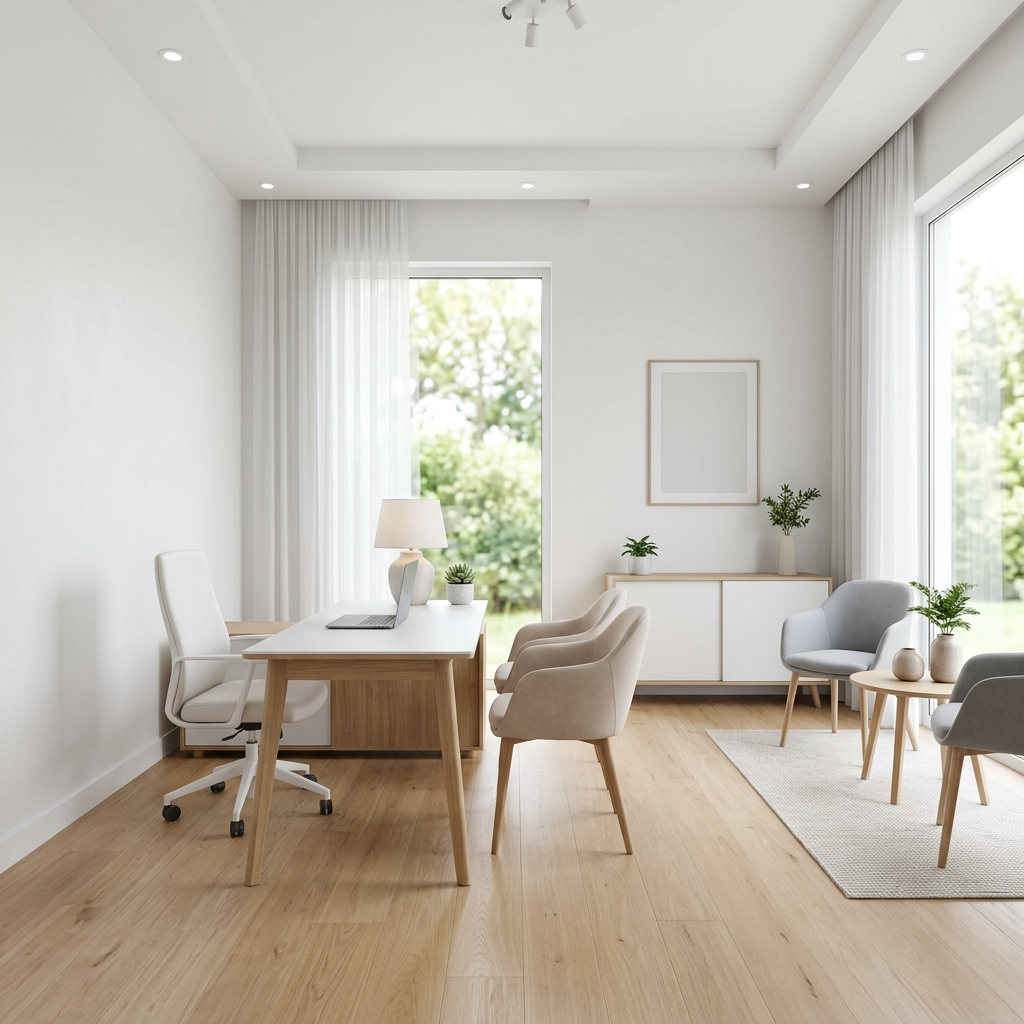
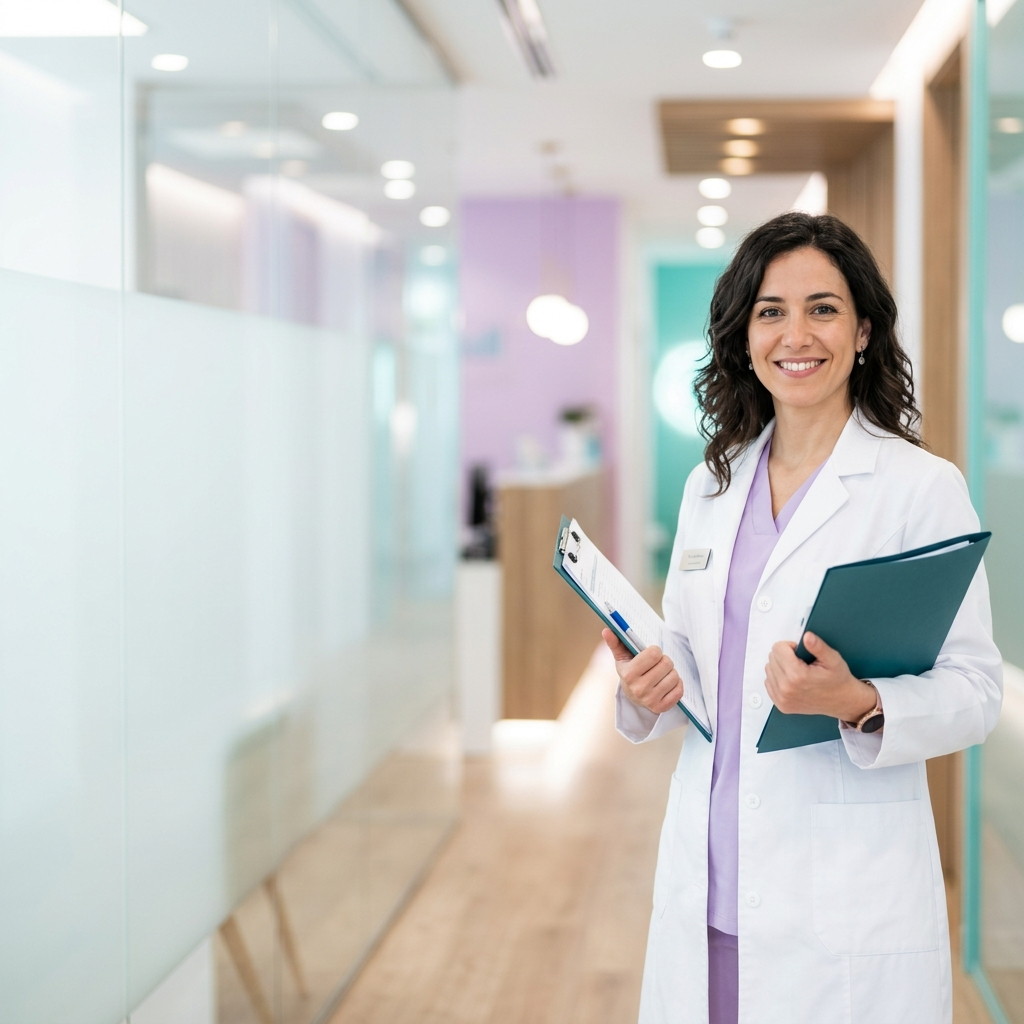
Fix: Solucionado error que omitía 75 claves de traducción en el bloque inglés de i18n.js, integrada nueva imagen de doctora con alta iluminación para el Hero, y configurado posicionamiento y opacidad de cabecera

diff --git a/js/i18n.js b/js/i18n.js
@@ -334,6 +334,81 @@ const translations = {
   },
 
   en: {
+    "btn.eligible": "See if I'm eligible →",
+    "pricing.hero_subtitle": 'Your online medical consultation, official prescription, and original medication included in a single flat monthly rate.',
+    "pricing.ship1_d": 'We collaborate with licensed online pharmacies in Spain. You will receive your pen at home via certified 24h cold-chain transport.',
+    "pricing.ship1_t": '📦 Direct Home Delivery',
+    "pricing.ship2_d": 'If you prefer, we issue an official electronic prescription so you can purchase your pen directly at your preferred local pharmacy.',
+    "pricing.ship2_t": '🏥 In-Pharmacy Pick-up',
+    "pricing.ship_sub": 'Upon clinician approval, your subscription fee covers the original medication. We offer two options for your convenience:',
+    "pricing.ship_title": 'How is medication delivery managed?',
+    "t_gen.desc1": 'GLP-1 (glucagon-like peptide-1) receptor agonists are state-of-the-art treatments specifically designed and approved to help regulate appetite and caloric intake.',
+    "t_gen.desc2": 'Multiple large-scale clinical trials have demonstrated that combining GLP-1 treatments with lifestyle changes is significantly more effective than diet alone for achieving healthy, steady weight loss.',
+    "t_gen.explore_link": 'Explore treatment →',
+    "t_gen.our_treatments": 'Our Treatments',
+    "t_gen.prescription_warning": 'These medications require a medical prescription in Spain. They can only be obtained with a prescription issued by a doctor after evaluating your clinical history.',
+    "t_gen.read_more": 'Read more about',
+    "t_gen.sub": 'The doctor will determine which drug is most suitable for you based on your BMI, clinical history, and compatibilities.',
+    "t_gen.tag": 'What are GLP-1s?',
+    "t_gen.title": 'Science-backed weight loss medications',
+    "test.cta_btn": 'Start Assessment →',
+    "test.cta_subtitle": 'Complete your online medical questionnaire in 10 minutes. No commitments.',
+    "test.cta_title": 'Want to be the next success story?',
+    "test.q1_quote": '"I chose MediSlim because I wanted a real doctor reviewing my medical history. I started with Mounjaro and have been losing weight consistently for 3 months. I have lost 9 kg — about 9% of my initial weight — and I feel supported every step of the way."',
+    "test.q1_result": '-9 kg in 3 months',
+    "test.q2_quote": '"I was worried about wasting money like with other programs. Here it was different: clear prices, clear process. I have lost 13 kg in four months, more than 12% of my starting weight."',
+    "test.q2_result": '-13 kg in 4 months',
+    "test.q3_quote": '"I didn\'t want to lose weight fast — I wanted something sustainable. After reviewing my history, the doctor recommended Saxenda. I have lost around 7% of my weight and my appetite is much more controlled."',
+    "test.q3_result": '-7% body weight',
+    "test.q4_quote": '"Years of sedentary work had really affected me. The first month with Wegovy I saw steady changes. Eight months later, I have lost 16 kg — about 15% — and it feels sustainable."',
+    "test.q4_result": '-16 kg in 8 months',
+    "test.q5_quote": '"Before starting Ozempic, I wanted clarity on what was realistic. My doctor explained the gradual and steady progress, not extreme results. In seven months I have reduced my weight by 11 kg, more than 10%."',
+    "test.q5_result": '-11 kg in 7 months',
+    "test.q6_quote": '"I wanted a medically supervised option. The doctor confirmed Mounjaro. In six months I have lost 21 kg, about 17%, and I have felt supported throughout the process."',
+    "test.q6_result": '-21 kg in 6 months',
+    "test.q7_quote": '"With hypertension and prediabetes, my GP had been telling me for years that I needed to lose weight. With Wegovy I have lost 14 kg in 5 months and my blood tests have improved significantly."',
+    "test.q7_result": '-14 kg in 5 months',
+    "test.q8_quote": '"The process was very easy: I filled out the form on a Sunday, the doctor contacted me on Monday, and by Wednesday I already had the prescription. I\'ve been on Saxenda for 4 months and have lost 8 kg without a constant feeling of hunger."',
+    "test.q8_result": '-8 kg in 4 months',
+    "test.q9_quote": '"The first month was about adjustment — some occasional nausea — but the doctor guided me perfectly. Now, in month 3 with Ozempic, I feel much more energetic and have lost 7 kg."',
+    "test.q9_result": '-7 kg in 3 months',
+    "test.stat_avg_lost": 'Average weight lost in 6 months',
+    "test.stat_continuity": 'Treatment continuity',
+    "test.stat_satisfaction": 'Satisfied patients',
+    "test.stat_testimonials": 'Verified testimonials',
+    "test.subtitle": 'Real results from real patients. Each testimonial has been verified and corresponds to a patient who has completed at least 3 months of treatment.',
+    "tm.dose_intro": 'Progressive dosage starting at 2.5 mg',
+    "tm.efectividad": 'Up to 20.9% body weight lost',
+    "tm.frecuencia": 'Weekly (Injection)',
+    "tm.hero_desc": 'The next-generation treatment for obesity. First dual GIP/GLP-1 agonist approved by the AEMPS with results up to 22% weight loss.',
+    "tm.hero_title": 'Mounjaro · Tirzepatide',
+    "tm.laboratorio": 'Eli Lilly',
+    "tm.mecanismo": 'GIP + GLP-1 (Dual)',
+    "tm.tag": 'Dual GIP + GLP-1 Agonist',
+    "to.dose_intro": 'Doses of 0.25 mg, 0.5 mg and 1 mg',
+    "to.efectividad": 'Glycemic control + progressive weight loss',
+    "to.frecuencia": 'Weekly (Injection)',
+    "to.hero_desc": "Novo Nordisk's weekly semaglutide treatment, widely known for its dual action of glycemic control and progressive weight loss.",
+    "to.hero_title": 'Ozempic · Semaglutide 0.5 / 1 mg',
+    "to.laboratorio": 'Novo Nordisk',
+    "to.mecanismo": 'GLP-1 receptor agonist',
+    "to.tag": 'GLP-1 Agonist',
+    "tsax.dose_intro": 'Adjustable daily dosage up to 3 mg',
+    "tsax.efectividad": 'Up to 8% body weight lost',
+    "tsax.frecuencia": 'Daily (Injection)',
+    "tsax.hero_desc": 'First GLP-1 receptor agonist approved for weight management in Spain. Daily administered, it offers excellent flexibility in dose titration.',
+    "tsax.hero_title": 'Saxenda · Liraglutida 3 mg',
+    "tsax.laboratorio": 'Novo Nordisk',
+    "tsax.mecanismo": 'GLP-1 receptor agonist',
+    "tsax.tag": 'GLP-1 Agonist · Daily',
+    "tw.dose_intro": 'Progressive dosage starting at 0.25 mg',
+    "tw.efectividad": 'Up to 15% body weight lost',
+    "tw.frecuencia": 'Weekly (Injection)',
+    "tw.hero_desc": 'Weekly treatment specifically approved by the AEMPS for overweight and obesity, which mimics the natural satiety hormone.',
+    "tw.hero_title": 'Wegovy · Semaglutide 2.4 mg',
+    "tw.laboratorio": 'Novo Nordisk',
+    "tw.mecanismo": 'GLP-1 receptor agonist',
+    "tw.tag": 'GLP-1 Agonist',
     /* ── NAVBAR ── */
     "nav.home":         "Home",
     "nav.about":        "About",

diff --git a/css/main.css b/css/main.css
@@ -564,7 +564,7 @@ h6 { font-size: 0.875rem; font-weight: 600; color: var(--color-primary); }
 .hero-bg img {
   width: 100%; height: 100%;
   object-fit: cover;
-  object-position: center top;
+  object-position: right center; /* Focuses on the doctor on the right side */
 }
 .hero-bg::after {
   content: '';
@@ -572,7 +572,7 @@ h6 { font-size: 0.875rem; font-weight: 600; color: var(--color-primary); }
   inset: 0;
   background: linear-gradient(
     90deg,
-    rgba(255,255,255,0.94) 0%,
+    rgba(255,255,255,0.96) 0%,
     rgba(255,255,255,0.65) 45%,
     rgba(255,255,255,0.1) 75%,
     rgba(255,255,255,0) 100%
@@ -583,7 +583,7 @@ h6 { font-size: 0.875rem; font-weight: 600; color: var(--color-primary); }
   inset: 0;
   background: var(--gradient-hero);
   mix-blend-mode: overlay;
-  opacity: 0.22; /* Reduced opacity to allow high brightness and sharp details of the clinic photo */
+  opacity: 0.08; /* Super bright: allow maximum color, light and details of the doctor to shine through */
 }
 
 .hero-content {